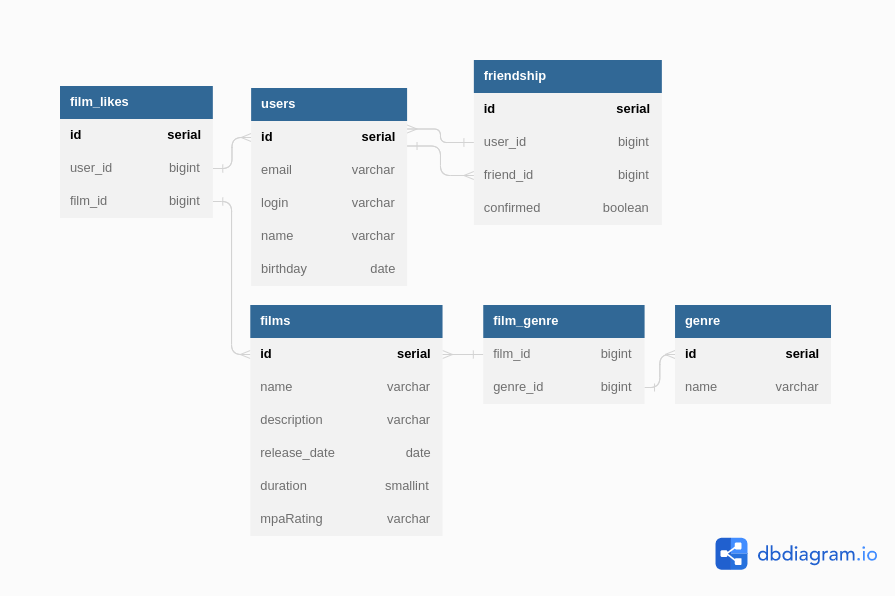
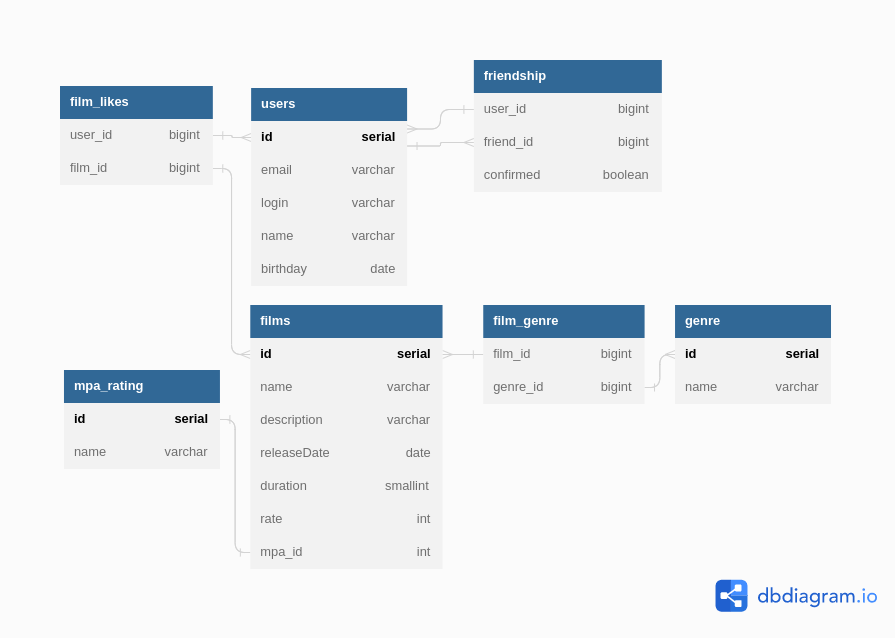
Database schema and script fix

diff --git a/README.md b/README.md
@@ -1,36 +1,144 @@
 # java-filmorate
 Template repository for Filmorate project.
 
-# Database schema
+## [Ссылка на диаграму](https://dbdiagram.io/d/64535e91dca9fb07c47bd475)
+
+## Database schema
 
 ![db_schema](src/main/resources/img/filmorate_db_schema.png)
 
-# Database script
+## Описание схемы
+* Таблица User предназначена для хранения информации о пользователях.
+Связана с таблицей friendship для хранения информации о друзьях.
+Связана с таблицей film_likes для хранения лайков, поставленных пользователем фильмам.
+
+Примеры запросов:
 
 ```postgres-psql
-CREATE TABLE films (
+update users set email = ?, login = ?, name = ?, birthday = ? 
+where id = ?;
+
+select id, email, login, name, birthday from users;
+
+select id, email, login, name, birthday 
+from users where id = ?
+
+```
+
+* Таблица film-likes используется для хранения user_id и film_id 
+для фильмов, которым пользователь поставил лайк.
+
+Примеры запросов:
+```postgres-psql
+SELECT * FROM film_likes WHERE user_id = ?;
+
+INSERT INTO film_likes (user_id, film_id) VALUES (?, ?)
+
+DELETE FROM film_likes WHERE user_id = ? AND film_id = ?
+
+```
+
+* Таблица Friendship используется для организации хранения 
+информации о друзьях пользователей.
+
+Примеры запросов:
+```postgres-psql
+SELECT * FROM friendship WHERE user_id = ?
+
+SELECT * FROM friendship WHERE user_id = ? AND friend_id = ?
+
+UPDATE friendship SET confirmed = ? WHERE user_id = ? AND friend_id = ?
+
+DELETE FROM friendship WHERE user_id = ? AND friend_id = ?
+```
+
+* Таблица Films используется для хранения информации о фильмах
+Имеет связь с таблицами mpa_rating и film_genre.
+
+Примеры запросов:
+```postgres-psql
+update films set name = ?, description = ?, releaseDate = ?, duration = ?, rate = ?, mpa_id = ? 
+where id = ?;
+
+update films set name = ?, description = ?, releaseDate = ?, duration = ?, rate = ?, mpa_id = ? 
+where id = ?
+
+select films.id, films.name, films.description, films.releaseDate, films.duration, 
+films.rate, mpa_rating.id, mpa_rating.name  from films 
+left join mpa_rating on films.mpa_id = mpa_rating.id
+
+select films.id, films.name, films.description, films.releaseDate, films.duration, 
+films.rate, mpa_rating.id, mpa_rating.name  from films 
+left join mpa_rating on films.mpa_id = mpa_rating.id where films.id = ?
+```
+
+* Таблица mpa_rating для хранения возрастного рейтинга фильмов.
+Примеры запросов:
+
+```postgres-psql
+select * from mpa_rating where id = ?
+
+select * from mpa_rating
+```
+
+* Таблица genre для хранения жанров фильмов
+
+Примеры запросов:
+```postgres-psql
+select * from genres;
+
+select * from genres where id = ?
+
+```
+
+* Таблица film_genre для связи фильмов и жанров
+
+```postgres-psql
+INSERT INTO film_genre (film_id, genre_id) VALUES (?, ?)
+
+DELETE FROM film_genre WHERE film_id = ?
+
+SELECT fg.film_id, fg.genre_id FROM film_genre fg JOIN films f ON f.id = fg.film_id 
+WHERE f.id = ?
+
+select film_id, genre_id 
+from film_genre where film_id = ? AND genre_id = ?
+```
+
+## Database script
+
+```postgres-psql
+CREATE TABLE IF NOT EXISTS mpa_rating (
+  id SERIAL PRIMARY KEY,
+  name VARCHAR(10) NOT NULL
+);
+
+CREATE TABLE IF NOT EXISTS films (
+--todo change to `id` bigint(20) generated by default as identity primary key NOT NULL
   id serial PRIMARY KEY,
   name varchar(255) not null,
   description varchar(255),
-  release_date date,
-  duration smallint,  
-  mpaRating varchar(10)
+  releaseDate date,
+  duration smallint,
+  rate INT,
+  mpa_id INT,
+  FOREIGN KEY (mpa_id) REFERENCES mpa_rating (id) ON DELETE SET NULL
 );
 
-CREATE TABLE genres (
+CREATE TABLE IF NOT EXISTS genres (
   id serial PRIMARY KEY,
   name varchar(255) not null
 );
 
-CREATE TABLE film_genre (
-  id serial PRIMARY KEY,
+CREATE TABLE IF NOT EXISTS film_genre (
   film_id bigint not null,
   genre_id bigint not null,
   FOREIGN KEY (film_id) REFERENCES films(id) ON DELETE CASCADE,
-  FOREIGN KEY (genre_id) REFERENCES genres(id) ON DELETE CASCADE
+  FOREIGN KEY (genre_id) REFERENCES genres(id) ON DELETE CASCADE,
+  CONSTRAINT film_genre_pkey PRIMARY KEY (film_id, genre_id)
 );
 
-CREATE TABLE users (
+CREATE TABLE IF NOT EXISTS users (
   id serial PRIMARY KEY,
   email varchar(100) UNIQUE NOT NULL,
   login varchar(50) UNIQUE NOT NULL,
@@ -38,19 +146,20 @@ CREATE TABLE users (
   birthday date
 );
 
-CREATE TABLE friendship (
-  id serial PRIMARY KEY,
+CREATE TABLE IF NOT EXISTS friendship (
   user_id bigint REFERENCES users(id) ON DELETE CASCADE,
   friend_id bigint REFERENCES users(id) ON DELETE CASCADE,
-  confirmed boolean not null default false
+  confirmed boolean not null default false,
+  CONSTRAINT friendship_pkey PRIMARY KEY (user_id, friend_id)
 );
 
-CREATE TABLE film_likes (
-  id serial PRIMARY KEY,
+CREATE TABLE IF NOT EXISTS film_likes (
   user_id bigint not null,
-  film_id bigint not null,  
+  film_id bigint not null,
   FOREIGN KEY (user_id) REFERENCES users(id) ON DELETE CASCADE,
-  FOREIGN KEY (film_id) REFERENCES films(id) ON DELETE CASCADE
+  FOREIGN KEY (film_id) REFERENCES films(id) ON DELETE CASCADE,
+  CONSTRAINT likes_pkey PRIMARY KEY (user_id, film_id)
 );
+
 
 ```
